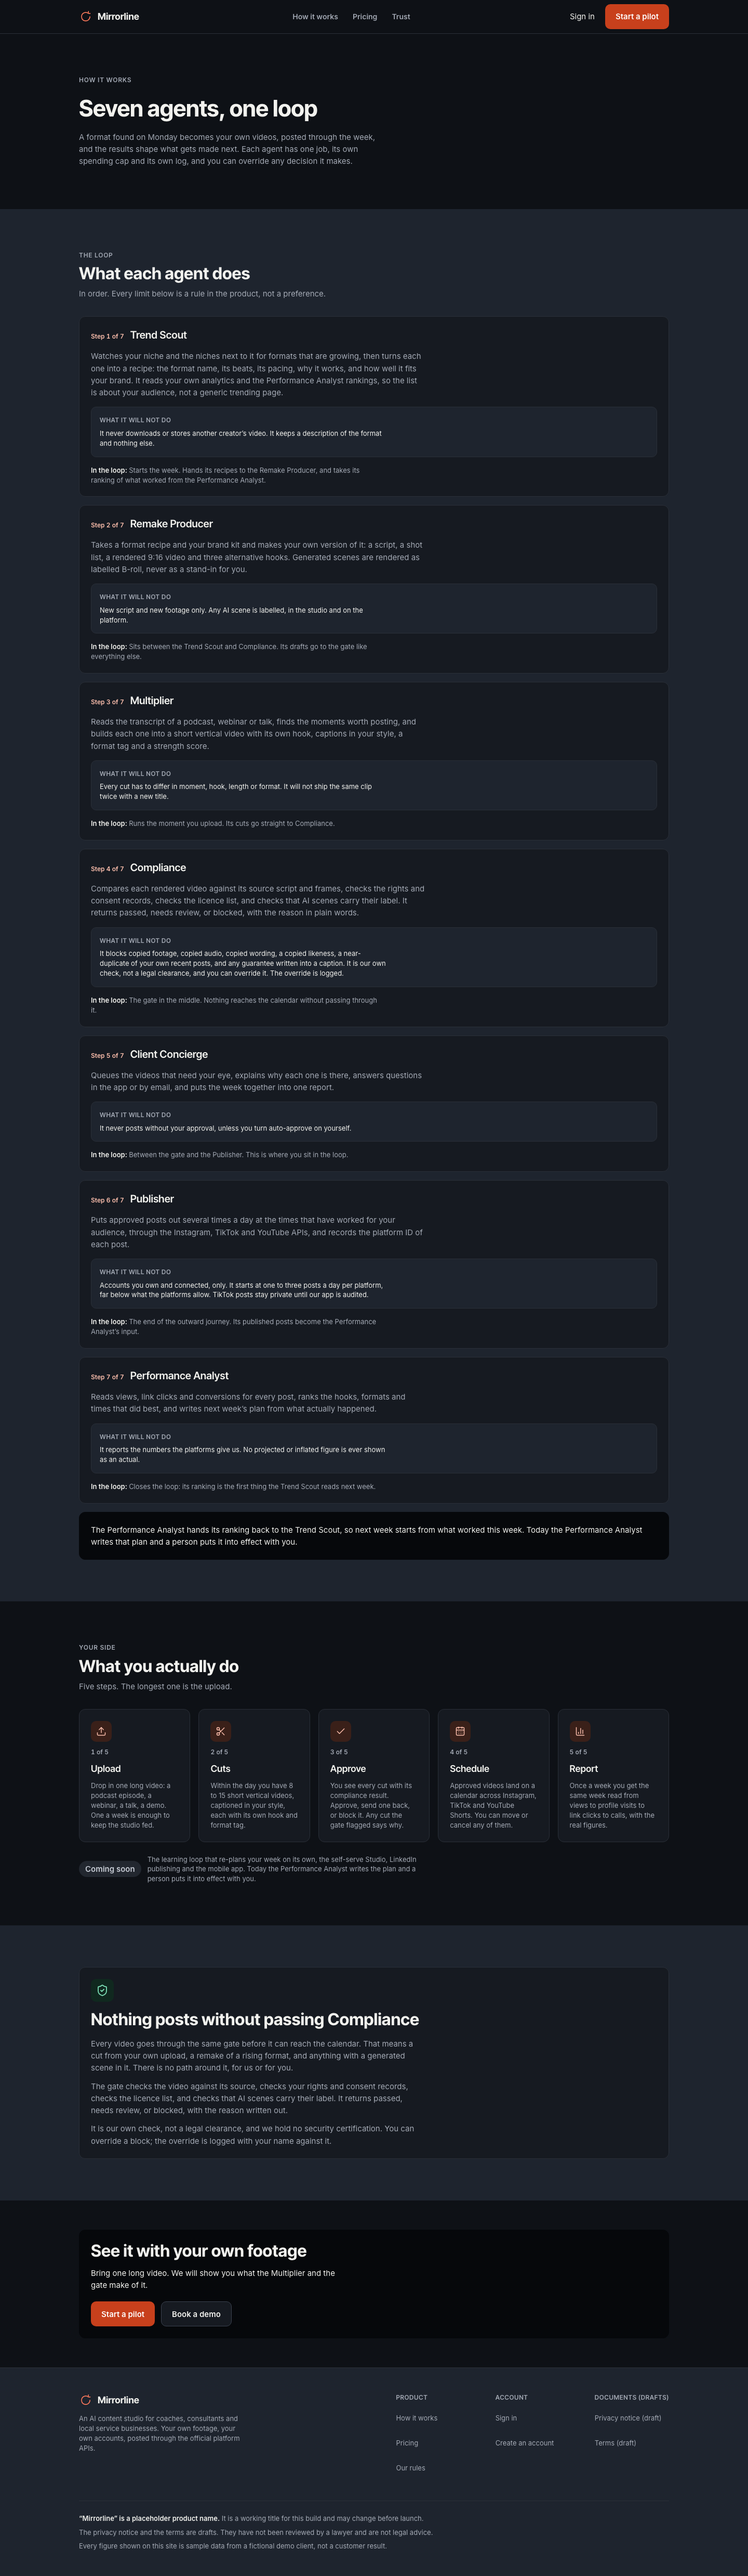
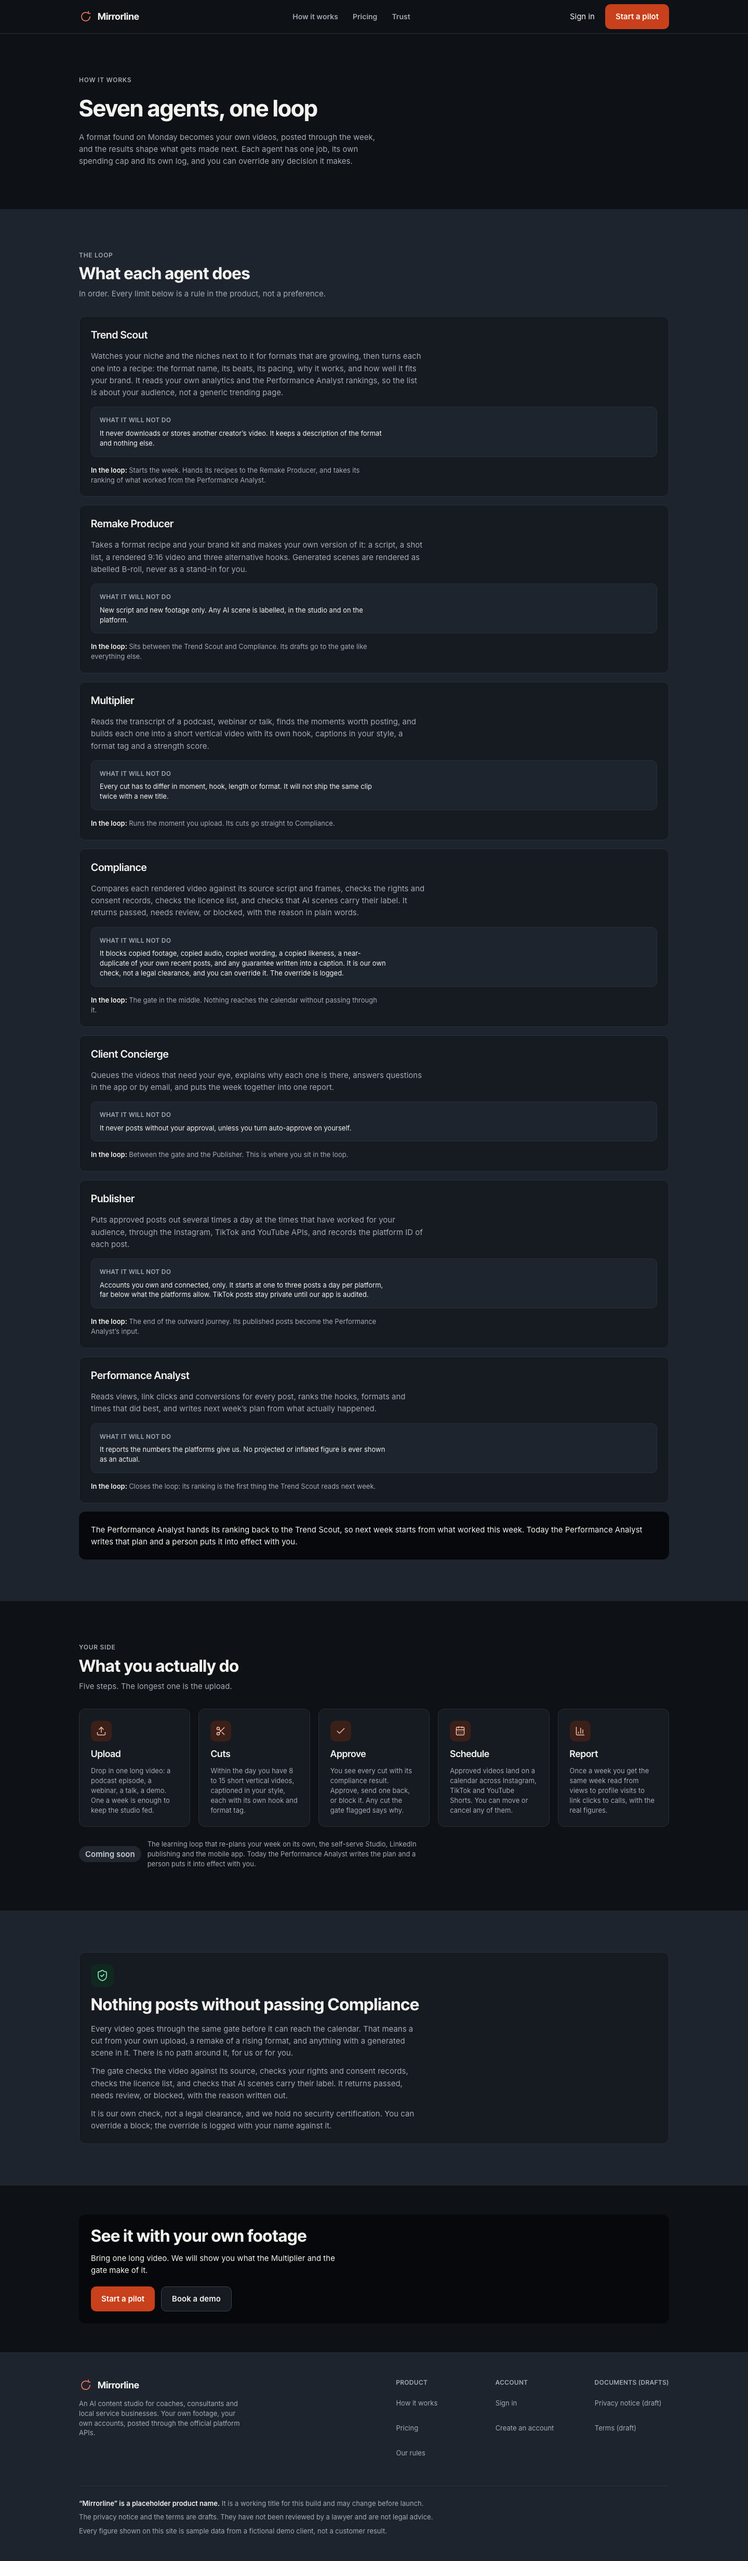
design: drop the remaining step counters
Three more instances of the generic step-label pattern, on the two
pages the first taste pass did not cover:
- /how-it-works: "Step N of 7" on each agent card
- /how-it-works: "N of 5" on each client step tile
- /trust: "Rule N of 7" on each rule card

In all three the <ol> already carries order and count for assistive
tech, and the items are read in sequence anyway, so the counter only
repeated what the list structure said. The rules on /trust are not
ranked, so numbering them implied a hierarchy that does not exist.

agent.step is kept: the landing-page ladder still uses it as the rail
digit, which conveys position in a diagram rather than labelling a card.

164 unit tests, 87 E2E, lint and typecheck clean, build green.
Screenshots regenerated.

diff --git a/apps/web/app/(marketing)/how-it-works/page.tsx b/apps/web/app/(marketing)/how-it-works/page.tsx
@@ -89,12 +89,10 @@ export default function HowItWorksPage() {
         <ol className="mt-8 flex list-none flex-col gap-4 p-0">
           {PUBLIC_AGENTS.map((agent) => (
             <Card as="li" key={agent.id} padding="lg" className="flex flex-col gap-4">
-              <div className="flex flex-wrap items-baseline gap-x-3 gap-y-1">
-                <span className="tabular text-caption font-semibold text-on-accent-soft">
-                  Step {agent.step} of {PUBLIC_AGENTS.length}
-                </span>
-                <h3 className="m-0 font-heading text-title text-text">{agent.name}</h3>
-              </div>
+              {/* No "Step N of 7" counter: the <ol> already carries the order
+                  for assistive tech, and the agents are introduced in sequence
+                  on the page. A counter on every card is furniture. */}
+              <h3 className="m-0 font-heading text-title text-text">{agent.name}</h3>
 
               <p className="m-0 max-w-[68ch] text-body text-text-muted">{agent.does}</p>
 
@@ -123,14 +121,13 @@ export default function HowItWorksPage() {
           lead="Five steps. The longest one is the upload."
         />
         <ol className="mt-8 grid list-none grid-cols-1 gap-4 p-0 sm:grid-cols-2 lg:grid-cols-5">
-          {CLIENT_STEPS.map((step, index) => (
+          {CLIENT_STEPS.map((step) => (
             <Card as="li" key={step.id} className="flex flex-col gap-3">
               <span className="grid size-10 place-items-center rounded-md bg-accent-soft text-on-accent-soft">
                 <step.Icon aria-hidden="true" className="size-5" strokeWidth={1.8} />
               </span>
-              <span className="tabular text-caption font-semibold text-text-muted">
-                {index + 1} of {CLIENT_STEPS.length}
-              </span>
+              {/* The icon and the <ol> carry the sequence; an "N of 5" counter
+                  on each tile only repeats what the order already says. */}
               <h3 className="m-0 font-heading text-subtitle text-text">{step.title}</h3>
               <p className="m-0 text-meta text-text-muted">{step.line}</p>
             </Card>

diff --git a/apps/web/app/(marketing)/trust/page.tsx b/apps/web/app/(marketing)/trust/page.tsx
@@ -115,11 +115,10 @@ export default function TrustPage() {
           Our rules
         </h2>
         <ol className="flex list-none flex-col gap-4 p-0">
-          {RULES.map((rule, index) => (
+          {RULES.map((rule) => (
             <Card as="li" key={rule.id} padding="lg" className="flex flex-col gap-3">
-              <span className="tabular text-caption font-semibold text-text-muted">
-                Rule {index + 1} of {RULES.length}
-              </span>
+              {/* No "Rule N of 7" counter: the <ol> carries the count for
+                  assistive tech, and the rules are not ranked. */}
               <h3 className="m-0 font-heading text-title text-text">{rule.title}</h3>
               {rule.paragraphs.map((paragraph) => (
                 <p key={paragraph} className="m-0 max-w-[68ch] text-body text-text-muted">
